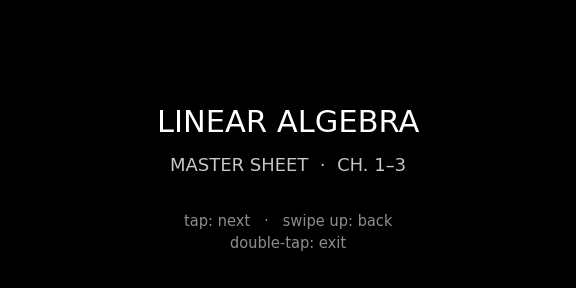
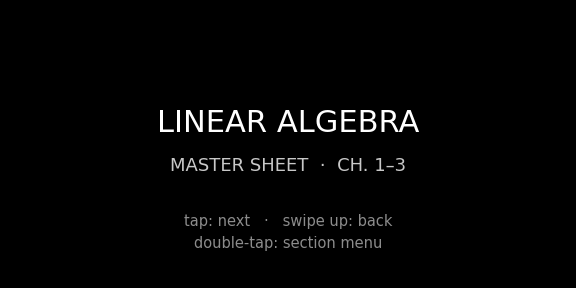
v1.2.0: section-jump menu, cache-busted manifest, resilient tile queue

Changed region(s): [[0.3438, 0.8125, 0.6562, 0.875]]

diff --git a/src/main.ts b/src/main.ts
@@ -3,8 +3,11 @@ import {
   type EvenAppBridge,
   TextContainerProperty,
   ImageContainerProperty,
+  ListContainerProperty,
+  ListItemContainerProperty,
   ImageRawDataUpdate,
   CreateStartUpPageContainer,
+  RebuildPageContainer,
   TextContainerUpgrade,
   OsEventTypeList,
 } from '@evenrealities/even_hub_sdk'
@@ -20,7 +23,12 @@ function setStatus(text: string) {
 
 // ---------------------------------------------------------------- tiles
 
-const manifest: Manifest = await (await fetch(`${import.meta.env.BASE_URL}cards.json`)).json()
+// cards.json must never be served stale: a cached manifest references
+// tile hashes that no longer exist after a redeploy (-> 404 -> blank).
+// Tiles themselves are content-hashed, so caching them is always safe.
+const manifest: Manifest = await (
+  await fetch(`${import.meta.env.BASE_URL}cards.json?v=${Date.now()}`, { cache: 'no-store' })
+).json()
 const tileCache = new Map<string, Uint8Array>()
 
 async function getTile(rel: string): Promise<Uint8Array> {
@@ -40,8 +48,6 @@ function prefetchCard(idx: number) {
 
 let previewGen = 0
 function showPhonePreview(idx: number) {
-  // The full card = 4 tiles; previewing tile 0's card via the preview/ copy
-  // isn't bundled, so stitch tiles on a canvas for the phone-side preview.
   const gen = ++previewGen
   void (async () => {
     const canvas = document.createElement('canvas')
@@ -78,7 +84,6 @@ let generation = 0
 let queue: Promise<void> = Promise.resolve()
 
 if (!bridge) {
-  // Plain-browser mode (no Even app): just preview cards, arrow keys flip.
   setStatus('No glasses bridge found — browser preview mode.')
   showPhonePreview(idx)
   window.addEventListener('keydown', e => {
@@ -94,7 +99,21 @@ if (!bridge) {
 async function startGlassesApp(bridge: EvenAppBridge) {
   setStatus('Connected — building page…')
 
-  // Restore last position.
+  // Section jump menu (opened with double-tap on a card).
+  const SECTIONS: { label: string; target: number | 'exit' }[] = [
+    { label: 'Start', target: 0 },
+    { label: '1-2 Dimensions & pivots', target: 1 },
+    { label: '3-4 Consistency & rank', target: 6 },
+    { label: '5-6 Homogeneous & IMT', target: 10 },
+    { label: '7 One-to-one & kernel', target: 16 },
+    { label: '8 Linearity', target: 20 },
+    { label: '9 Standard matrices', target: 22 },
+    { label: '10 Composition', target: 27 },
+    { label: 'Exam recipes', target: 29 },
+    { label: 'Exit app', target: 'exit' },
+  ]
+  let mode: 'cards' | 'menu' = 'cards'
+
   try {
     const saved = await bridge.getLocalStorage('cardIdx')
     const n = parseInt(saved ?? '', 10)
@@ -103,77 +122,92 @@ async function startGlassesApp(bridge: EvenAppBridge) {
     /* first run */
   }
 
-  // Full-screen text container behind the images captures all input
-  // (image containers cannot set isEventCapture).
-  const eventLayer = new TextContainerProperty({
-    xPosition: 0,
-    yPosition: 0,
-    width: 576,
-    height: 288,
-    borderWidth: 0,
-    borderColor: 0,
-    paddingLength: 0,
-    containerID: 1,
-    containerName: 'evt',
-    content: ' ',
-    isEventCapture: 1,
-  })
-
-  // 2x2 grid of 288x144 image containers = full 576x288 canvas.
   const tilePos = [
     [0, 0],
     [288, 0],
     [0, 144],
     [288, 144],
   ]
-  const imageObject = tilePos.map(
-    ([x, y], t) =>
-      new ImageContainerProperty({
-        xPosition: x,
-        yPosition: y,
-        width: 288,
-        height: 144,
-        containerID: 2 + t,
-        containerName: `tile${t}`,
-      }),
-  )
 
-  // Progress counter drawn OVER the images (ID 6 > image IDs, text has no
-  // background fill). Updating text is near-instant vs ~21KB per image tile,
-  // and keeping it out of the images lets identical tiles be skipped.
-  const counter = new TextContainerProperty({
-    xPosition: 496,
-    yPosition: 2,
-    width: 78,
-    height: 30,
-    borderWidth: 0,
-    borderColor: 0,
-    paddingLength: 0,
-    containerID: 6,
-    containerName: 'counter',
-    content: `${idx + 1}/${manifest.count}`,
-    isEventCapture: 0,
-  })
+  // Full-screen text container behind the images captures all input
+  // (image containers cannot set isEventCapture).
+  function cardContainers() {
+    const eventLayer = new TextContainerProperty({
+      xPosition: 0,
+      yPosition: 0,
+      width: 576,
+      height: 288,
+      borderWidth: 0,
+      borderColor: 0,
+      paddingLength: 0,
+      containerID: 1,
+      containerName: 'evt',
+      content: ' ',
+      isEventCapture: 1,
+    })
+    const counter = new TextContainerProperty({
+      xPosition: 496,
+      yPosition: 2,
+      width: 78,
+      height: 30,
+      borderWidth: 0,
+      borderColor: 0,
+      paddingLength: 0,
+      containerID: 6,
+      containerName: 'counter',
+      content: `${idx + 1}/${manifest.count}`,
+      isEventCapture: 0,
+    })
+    const imageObject = tilePos.map(
+      ([x, y], t) =>
+        new ImageContainerProperty({
+          xPosition: x,
+          yPosition: y,
+          width: 288,
+          height: 144,
+          containerID: 2 + t,
+          containerName: `tile${t}`,
+        }),
+    )
+    return { containerTotalNum: 6, textObject: [eventLayer, counter], imageObject }
+  }
+
+  function menuContainers() {
+    const list = new ListContainerProperty({
+      xPosition: 0,
+      yPosition: 0,
+      width: 576,
+      height: 288,
+      borderWidth: 0,
+      borderColor: 5,
+      borderRadius: 0,
+      paddingLength: 4,
+      containerID: 20,
+      containerName: 'menu',
+      isEventCapture: 1,
+      itemContainer: new ListItemContainerProperty({
+        itemCount: SECTIONS.length,
+        itemWidth: 560,
+        isItemSelectBorderEn: 1,
+        itemName: SECTIONS.map(s => s.label),
+      }),
+    })
+    return { containerTotalNum: 1, listObject: [list] }
+  }
 
   const created = await bridge.createStartUpPageContainer(
-    new CreateStartUpPageContainer({
-      containerTotalNum: 6,
-      textObject: [eventLayer, counter],
-      imageObject,
-    }),
+    new CreateStartUpPageContainer(cardContainers()),
   )
   if (created !== 0) {
     setStatus(`createStartUpPageContainer failed: ${created}`)
     return
   }
 
-  await showCard(idx)
-  setStatus(`On glasses — card ${idx + 1}/${manifest.count}. Phone can go in your pocket.`)
-
   // updateImageRawData must be serial: one in flight at a time. A newer
   // showCard() bumps `generation` so stale tile sends are skipped. Tiles
-  // whose URL already sits in a container are not re-sent — the wire cost
-  // is the decoded 4-bit bitmap (~21KB/tile), not the PNG.
+  // already on screen are not re-sent — the wire cost is the decoded
+  // 4-bit bitmap (~21KB/tile), not the PNG. Every queue link catches its
+  // own errors so one failed send can never poison the chain.
   const onScreen: (string | null)[] = [null, null, null, null]
   async function showCard(target: number, force = false) {
     const gen = ++generation
@@ -190,21 +224,26 @@ async function startGlassesApp(bridge: EvenAppBridge) {
       )
       .catch(() => {})
     queue = queue.then(async () => {
-      for (let t = 0; t < 4; t++) {
-        if (gen !== generation) return
-        const rel = manifest.cards[target][t]
-        if (!force && onScreen[t] === rel) continue
-        const bytes = await getTile(rel)
-        if (gen !== generation) return
-        const result = await bridge.updateImageRawData(
-          new ImageRawDataUpdate({
-            containerID: 2 + t,
-            containerName: `tile${t}`,
-            imageData: bytes,
-          }),
-        )
-        if (String(result) === 'success') onScreen[t] = rel
-        else console.error('updateImageRawData:', result)
+      try {
+        for (let t = 0; t < 4; t++) {
+          if (gen !== generation || mode !== 'cards') return
+          const rel = manifest.cards[target][t]
+          if (!force && onScreen[t] === rel) continue
+          const bytes = await getTile(rel)
+          if (gen !== generation || mode !== 'cards') return
+          const result = await bridge.updateImageRawData(
+            new ImageRawDataUpdate({
+              containerID: 2 + t,
+              containerName: `tile${t}`,
+              imageData: bytes,
+            }),
+          )
+          if (String(result) === 'success') onScreen[t] = rel
+          else console.error('updateImageRawData:', result)
+        }
+      } catch (err) {
+        console.error('tile send failed', err)
+        setStatus(`Tile send failed (card ${target + 1}): ${err instanceof Error ? err.message : err}`)
       }
     })
     await queue
@@ -212,6 +251,27 @@ async function startGlassesApp(bridge: EvenAppBridge) {
     prefetchCard(target - 1)
     setStatus(`On glasses — card ${target + 1}/${manifest.count}`)
   }
+
+  async function openMenu() {
+    mode = 'menu'
+    generation++ // abandon in-flight tile sends
+    await bridge.rebuildPageContainer(new RebuildPageContainer(menuContainers())).catch(err => {
+      console.error('menu rebuild failed', err)
+    })
+    setStatus('Menu open — click a section on the glasses.')
+  }
+
+  async function backToCards(target: number) {
+    mode = 'cards'
+    onScreen.fill(null) // containers were destroyed by the rebuild
+    await bridge.rebuildPageContainer(new RebuildPageContainer(cardContainers())).catch(err => {
+      console.error('card rebuild failed', err)
+    })
+    void showCard(target, true)
+  }
+
+  await showCard(idx)
+  setStatus(`On glasses — card ${idx + 1}/${manifest.count}. Phone can go in your pocket.`)
 
   const next = () => void showCard(idx + 1 < manifest.count ? idx + 1 : 0)
   const prev = () => void showCard(idx - 1 >= 0 ? idx - 1 : manifest.count - 1)
@@ -227,27 +287,48 @@ async function startGlassesApp(bridge: EvenAppBridge) {
   bridge.onEvenHubEvent(event => {
     // Protobuf omits zero-value fields, so CLICK_EVENT (0) can arrive as
     // an envelope whose eventType is undefined. Real hardware may route
-    // taps through sysEvent OR textEvent depending on the active container.
+    // events through sysEvent, textEvent or listEvent depending on the
+    // active container.
     const sysType = event.sysEvent?.eventType
     const textType = event.textEvent?.eventType
-
-    if (
+    const listType = event.listEvent?.eventType
+    const isClick = (t: number | undefined, envelope: unknown) =>
+      envelope != null && (t === OsEventTypeList.CLICK_EVENT || t === undefined)
+    const doubleTap =
       sysType === OsEventTypeList.DOUBLE_CLICK_EVENT ||
-      textType === OsEventTypeList.DOUBLE_CLICK_EVENT
-    ) {
-      // Root page: hand back to the host for the exit dialogue (required UX).
-      void bridge.shutDownPageContainer(1)
-      return
-    }
-
-    if (
+      textType === OsEventTypeList.DOUBLE_CLICK_EVENT ||
+      listType === OsEventTypeList.DOUBLE_CLICK_EVENT
+    const foreground =
       sysType === OsEventTypeList.FOREGROUND_ENTER_EVENT ||
       textType === OsEventTypeList.FOREGROUND_ENTER_EVENT
-    ) {
-      void showCard(idx, true) // full re-paint: containers may have been cleared
+
+    if (foreground) {
+      // Full re-paint: containers may have been cleared by the host.
+      if (mode === 'menu') void openMenu()
+      else void backToCards(idx)
       return
     }
 
+    if (mode === 'menu') {
+      if (doubleTap) {
+        void bridge.shutDownPageContainer(1)
+        return
+      }
+      if (event.listEvent && isClick(listType, event.listEvent)) {
+        const sel = event.listEvent.currentSelectItemIndex ?? 0
+        const section = SECTIONS[sel]
+        if (!section) return
+        if (section.target === 'exit') void bridge.shutDownPageContainer(1)
+        else void backToCards(section.target)
+      }
+      return
+    }
+
+    // cards mode
+    if (doubleTap) {
+      void openMenu()
+      return
+    }
     if (
       sysType === OsEventTypeList.SCROLL_BOTTOM_EVENT ||
       textType === OsEventTypeList.SCROLL_BOTTOM_EVENT
@@ -262,9 +343,6 @@ async function startGlassesApp(bridge: EvenAppBridge) {
       onScroll('top')
       return
     }
-
-    const isClick = (t: number | undefined, envelope: unknown) =>
-      envelope != null && (t === OsEventTypeList.CLICK_EVENT || t === undefined)
     if (isClick(sysType, event.sysEvent) || isClick(textType, event.textEvent)) {
       next()
     }

diff --git a/index.html b/index.html
@@ -17,7 +17,7 @@
   <main>
     <h1>LinAlg Master Sheet &middot; Even G2</h1>
     <p id="status">Waiting for glasses bridge&hellip;</p>
-    <p>Controls on the glasses: <b>tap</b> = next card &middot; <b>swipe up</b> = previous &middot; <b>swipe down</b> = next &middot; <b>double-tap</b> = exit.</p>
+    <p>Controls on the glasses: <b>tap</b> = next card &middot; <b>swipe up</b> = previous &middot; <b>swipe down</b> = next &middot; <b>double-tap</b> = section menu (jump or exit).</p>
     <p>You can put the phone away once the first card shows up.</p>
     <img id="cardPreview" alt="current card" />
   </main>

diff --git a/render_cards.py b/render_cards.py
@@ -35,7 +35,7 @@ CARDS = [
             (r"LINEAR ALGEBRA", dict(size=22, x=0.5, ha="center", gap=0.10)),
             (r"MASTER SHEET  ·  CH. 1–3", dict(size=13, x=0.5, ha="center", color=MID)),
             (r"tap: next   ·   swipe up: back", dict(size=10.5, x=0.5, ha="center", color=DIM, gap=0.10)),
-            (r"double-tap: exit", dict(size=10.5, x=0.5, ha="center", color=DIM)),
+            (r"double-tap: section menu", dict(size=10.5, x=0.5, ha="center", color=DIM)),
         ],
     },
     {

diff --git a/README.md b/README.md
@@ -22,7 +22,8 @@ glasses as pre-rendered math cards. Live at:
 | tap | next card |
 | swipe down | next card |
 | swipe up | previous card |
-| double-tap | exit dialog |
+| double-tap | section menu (scroll, click to jump; Exit lives here) |
+| double-tap in menu | exit dialog |
 
 Last card position is remembered between launches.
 